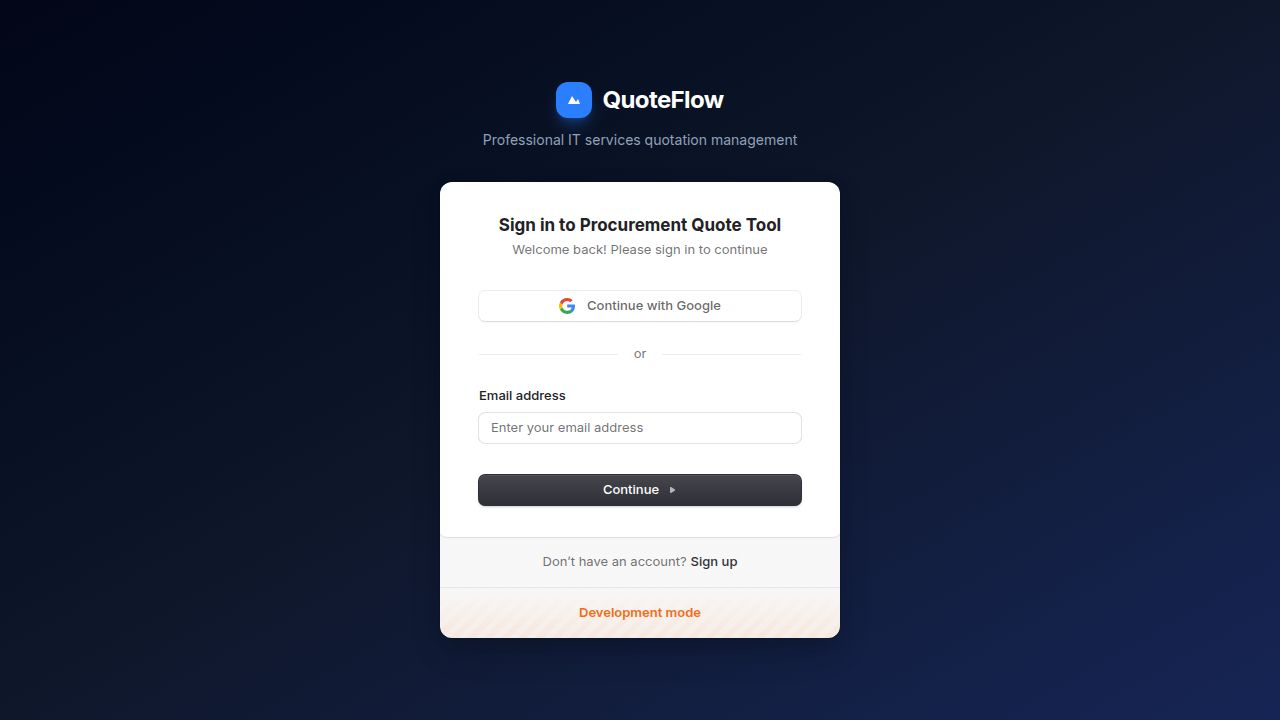
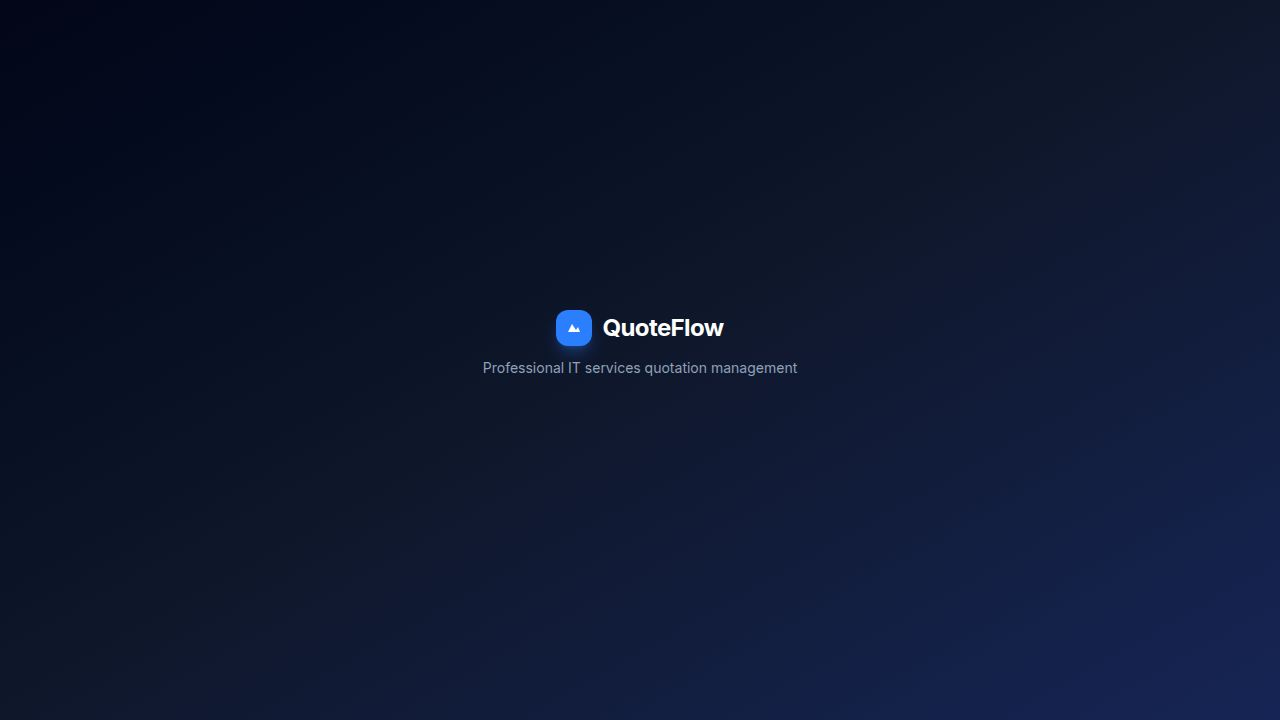
feat: Let existing customers manage their subscription from inside the app (Task #10)
## What was done
Added a self-serve subscription management flow so users can view their current plan
and open the Stripe Customer Portal directly from the Settings page.

## API changes (artifacts/api-server/src/routes/stripe.ts)
- Added GET /api/stripe/subscription (auth-protected):
  - Looks up the user's stripe_subscription_id from the users table
  - Retrieves full subscription details from Stripe (with product expansion)
  - Returns: { subscription: { id, status, planName, interval, currentPeriodEnd, cancelAtPeriodEnd } }
  - Returns { subscription: null } if no subscription exists
- Added POST /api/stripe/customer-portal (auth-protected):
  - Looks up the user's stripe_customer_id from the users table
  - Creates a Stripe Billing Portal session via stripe.billingPortal.sessions.create()
  - Returns { url } for client-side redirect to the portal
  - Returns 400 if no stripe_customer_id is found

## Dashboard changes (artifacts/dashboard/src/pages/SettingsPage.tsx)
- Added Billing section (outside the settings form, below Save Settings button)
- Fetches subscription data using @user/react-query (queryKey: ["stripe-subscription"])
- Shows loading skeleton while fetching
- If active subscription: displays plan name, status badge (color-coded), renewal/cancellation date,
  and "Manage Subscription" button with ExternalLink icon
- If no subscription: displays "No active subscription found." and a "Manage Subscription" button
[…]

Changed region(s): [[0.3438, 0.2444, 0.6562, 0.8861], [0.375, 0.0917, 0.625, 0.2139]]

diff --git a/artifacts/dashboard/src/pages/SettingsPage.tsx b/artifacts/dashboard/src/pages/SettingsPage.tsx
@@ -1,4 +1,5 @@
 import { useEffect, useRef, useState } from "react";
+import { useQuery } from "@tanstack/react-query";
 import { useGetSettings, useUpdateSettings } from "@workspace/api-client-react";
 import type { SettingsInput, SettingsInputDefaultTemplate } from "@workspace/api-client-react";
 import { useToast } from "@/hooks/use-toast";
@@ -14,7 +15,22 @@ import {
 } from "@/components/ui/select";
 import { Label } from "@/components/ui/label";
 import { motion } from "framer-motion";
-import { Settings, Upload, Loader2 } from "lucide-react";
+import { Settings, Upload, Loader2, CreditCard, ExternalLink } from "lucide-react";
+
+interface SubscriptionInfo {
+  id: string;
+  status: string;
+  planName: string;
+  interval: string | null;
+  currentPeriodEnd: number;
+  cancelAtPeriodEnd: boolean;
+}
+
+async function fetchSubscription(): Promise<{ subscription: SubscriptionInfo | null }> {
+  const res = await fetch("/api/stripe/subscription", { credentials: "include" });
+  if (!res.ok) throw new Error("Failed to fetch subscription");
+  return res.json();
+}
 
 export default function SettingsPage() {
   const { data: settings, isLoading, refetch } = useGetSettings();
@@ -23,6 +39,13 @@ export default function SettingsPage() {
   const fileRef = useRef<HTMLInputElement>(null);
   const [logoUploading, setLogoUploading] = useState(false);
   const [logoPreview, setLogoPreview] = useState<string | null>(null);
+  const [portalLoading, setPortalLoading] = useState(false);
+
+  const { data: subscriptionData, isLoading: subscriptionLoading } = useQuery({
+    queryKey: ["stripe-subscription"],
+    queryFn: fetchSubscription,
+    retry: false,
+  });
 
   const [form, setForm] = useState<SettingsInput>({
     name: "",
@@ -94,6 +117,28 @@ export default function SettingsPage() {
       toast({ title: "Logo upload failed", variant: "destructive" });
     } finally {
       setLogoUploading(false);
+    }
+  }
+
+  async function handleManageBilling() {
+    setPortalLoading(true);
+    try {
+      const res = await fetch("/api/stripe/customer-portal", {
+        method: "POST",
+        credentials: "include",
+      });
+      if (!res.ok) {
+        const json = await res.json();
+        throw new Error(json.error ?? "Failed to open billing portal");
+      }
+      const { url } = await res.json();
+      window.location.href = url;
+    } catch (err) {
+      toast({
+        title: err instanceof Error ? err.message : "Failed to open billing portal",
+        variant: "destructive",
+      });
+      setPortalLoading(false);
     }
   }
 
@@ -343,7 +388,104 @@ export default function SettingsPage() {
           </Button>
         </div>
       </form>
+
+      {/* Billing */}
+      <Section title="Billing">
+        {subscriptionLoading ? (
+          <div className="h-10 bg-slate-800 rounded-lg animate-pulse" />
+        ) : subscriptionData?.subscription ? (
+          <BillingInfo
+            subscription={subscriptionData.subscription}
+            onManage={handleManageBilling}
+            loading={portalLoading}
+          />
+        ) : (
+          <div className="flex items-center justify-between">
+            <p className="text-slate-400 text-sm">No active subscription found.</p>
+            <Button
+              type="button"
+              variant="outline"
+              size="sm"
+              className="border-slate-700 text-slate-300 hover:text-white hover:bg-slate-800"
+              onClick={handleManageBilling}
+              disabled={portalLoading}
+              data-testid="manage-billing-btn"
+            >
+              {portalLoading ? (
+                <><Loader2 size={13} className="animate-spin mr-1.5" />Opening...</>
+              ) : (
+                <><CreditCard size={13} className="mr-1.5" />Manage Subscription</>
+              )}
+            </Button>
+          </div>
+        )}
+      </Section>
     </motion.div>
+  );
+}
+
+function BillingInfo({
+  subscription,
+  onManage,
+  loading,
+}: {
+  subscription: SubscriptionInfo;
+  onManage: () => void;
+  loading: boolean;
+}) {
+  const renewalDate = new Date(subscription.currentPeriodEnd * 1000).toLocaleDateString(undefined, {
+    year: "numeric",
+    month: "long",
+    day: "numeric",
+  });
+
+  const statusColor: Record<string, string> = {
+    active: "text-green-400",
+    trialing: "text-blue-400",
+    past_due: "text-yellow-400",
+    canceled: "text-red-400",
+    unpaid: "text-red-400",
+  };
+
+  const statusLabel: Record<string, string> = {
+    active: "Active",
+    trialing: "Trial",
+    past_due: "Past Due",
+    canceled: "Canceled",
+    unpaid: "Unpaid",
+  };
+
+  return (
+    <div className="flex items-center justify-between gap-4 flex-wrap">
+      <div className="space-y-1">
+        <div className="flex items-center gap-2">
+          <span className="text-white font-medium">{subscription.planName}</span>
+          <span className={`text-xs font-semibold uppercase ${statusColor[subscription.status] ?? "text-slate-400"}`}>
+            {statusLabel[subscription.status] ?? subscription.status}
+          </span>
+        </div>
+        <p className="text-slate-400 text-sm">
+          {subscription.cancelAtPeriodEnd
+            ? `Cancels on ${renewalDate}`
+            : `Renews on ${renewalDate}`}
+        </p>
+      </div>
+      <Button
+        type="button"
+        variant="outline"
+        size="sm"
+        className="border-slate-700 text-slate-300 hover:text-white hover:bg-slate-800"
+        onClick={onManage}
+        disabled={loading}
+        data-testid="manage-billing-btn"
+      >
+        {loading ? (
+          <><Loader2 size={13} className="animate-spin mr-1.5" />Opening...</>
+        ) : (
+          <><ExternalLink size={13} className="mr-1.5" />Manage Subscription</>
+        )}
+      </Button>
+    </div>
   );
 }
 

diff --git a/artifacts/api-server/src/routes/stripe.ts b/artifacts/api-server/src/routes/stripe.ts
@@ -1,7 +1,9 @@
 import { Router, type IRouter } from "express";
-import { db } from "@workspace/db";
+import { eq } from "drizzle-orm";
+import { db, usersTable } from "@workspace/db";
 import { sql } from "drizzle-orm";
 import { getUncachableStripeClient } from "../stripeClient";
+import { requireAuth } from "./auth";
 
 const router: IRouter = Router();
 
@@ -89,6 +91,68 @@ router.post("/stripe/create-checkout-session", async (req, res) => {
   });
 
   return res.json({ url: session.url });
+});
+
+router.get("/stripe/subscription", requireAuth, async (req, res): Promise<void> => {
+  try {
+    const [user] = await db
+      .select()
+      .from(usersTable)
+      .where(eq(usersTable.id, req.clerkUserId));
+
+    if (!user?.stripeSubscriptionId) {
+      res.json({ subscription: null });
+      return;
+    }
+
+    const stripe = await getUncachableStripeClient();
+    const subscription = await stripe.subscriptions.retrieve(user.stripeSubscriptionId, {
+      expand: ["items.data.price.product"],
+    });
+
+    const item = subscription.items.data[0];
+    const price = item?.price;
+    const product = price?.product as { name?: string } | undefined;
+
+    res.json({
+      subscription: {
+        id: subscription.id,
+        status: subscription.status,
+        planName: product?.name ?? price?.nickname ?? "Subscription",
+        interval: price?.recurring?.interval ?? null,
+        currentPeriodEnd: subscription.current_period_end,
+        cancelAtPeriodEnd: subscription.cancel_at_period_end,
+      },
+    });
+  } catch {
+    res.status(500).json({ error: "Failed to fetch subscription" });
+  }
+});
+
+router.post("/stripe/customer-portal", requireAuth, async (req, res): Promise<void> => {
+  try {
+    const [user] = await db
+      .select()
+      .from(usersTable)
+      .where(eq(usersTable.id, req.clerkUserId));
+
+    if (!user?.stripeCustomerId) {
+      res.status(400).json({ error: "No billing account found. Please subscribe first." });
+      return;
+    }
+
+    const stripe = await getUncachableStripeClient();
+    const baseUrl = `https://${process.env.REPLIT_DOMAINS?.split(",")[0]}`;
+
+    const session = await stripe.billingPortal.sessions.create({
+      customer: user.stripeCustomerId,
+      return_url: `${baseUrl}/settings`,
+    });
+
+    res.json({ url: session.url });
+  } catch {
+    res.status(500).json({ error: "Failed to create billing portal session" });
+  }
 });
 
 export default router;